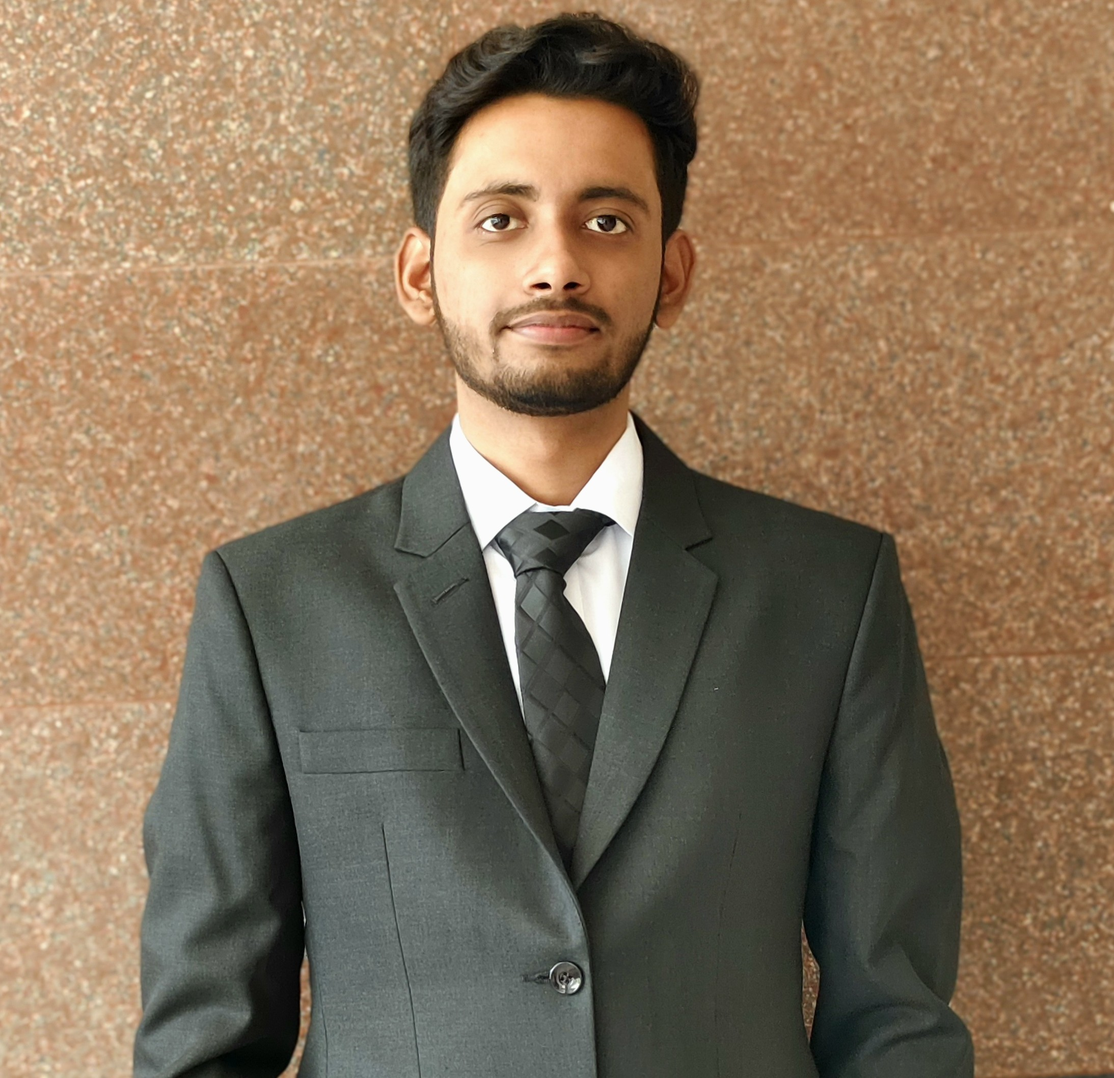
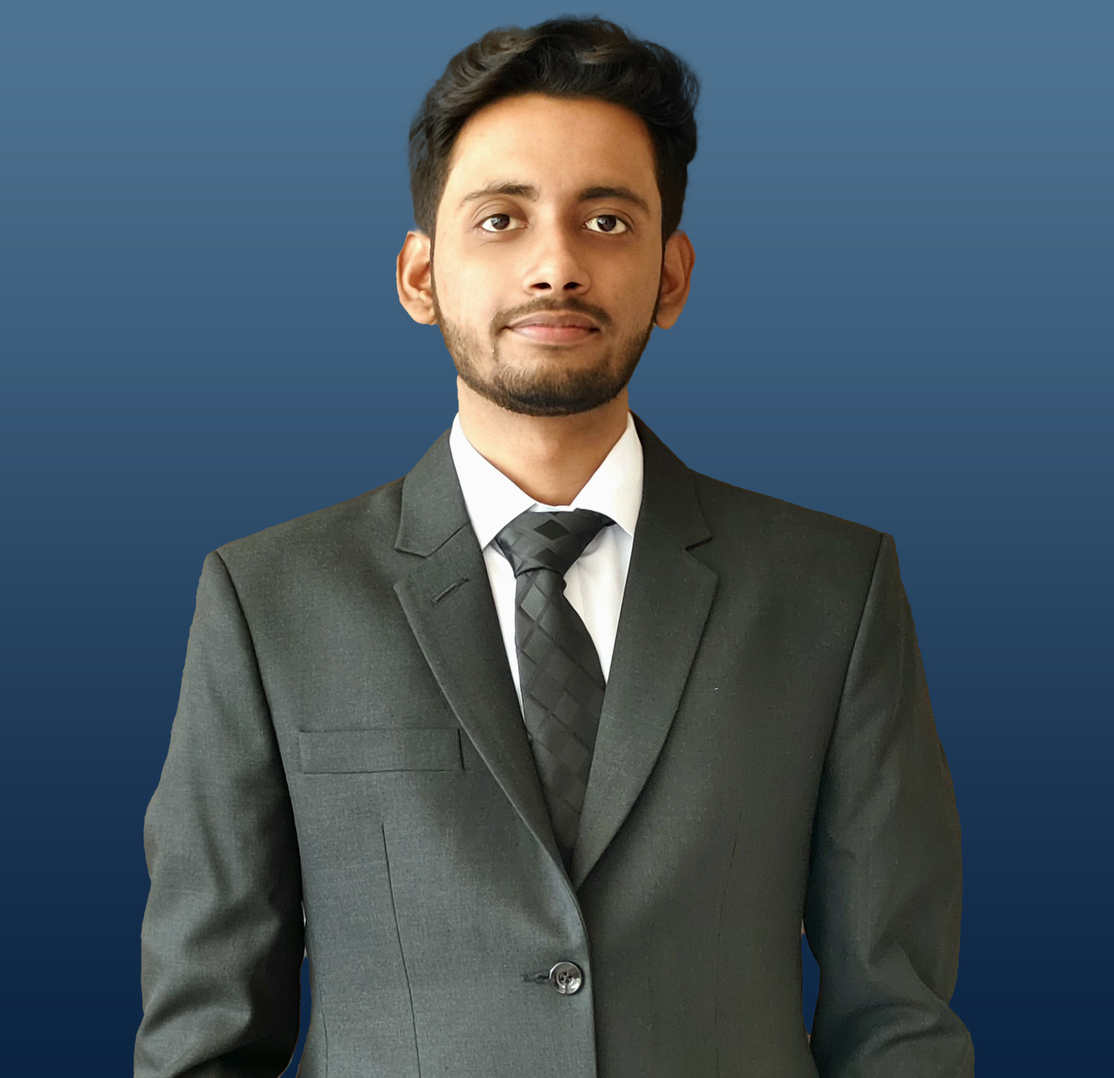
commit

diff --git a/index.html b/index.html
@@ -72,7 +72,7 @@
 					<section id="two" class="spotlights">
 							<section>
 								<a class="image" style="width: fit-content;" >
-									<img src="images/pp.jpg" alt="" data-position="top center" />
+									<img src="images/pp2.jpg" alt="" data-position="top center" />
 								</a>
 								<div class="content" >
 									<div class="inner" >
